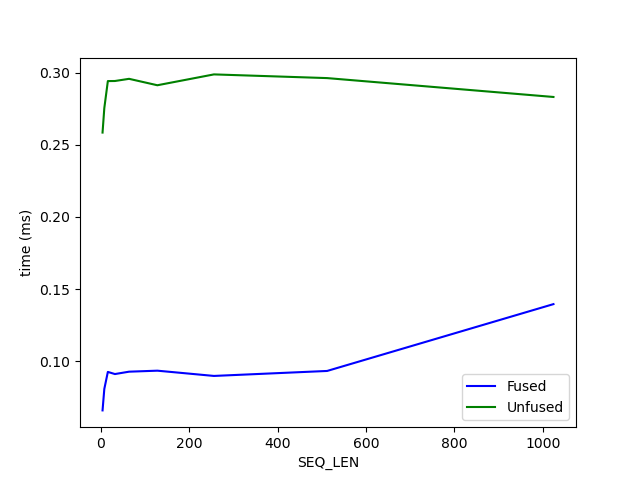
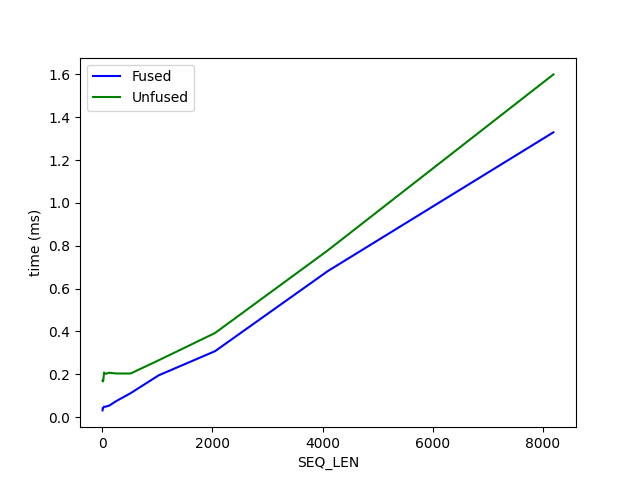
setup autotuning

diff --git a/fusion/hnet/triton/fused_dc.py b/fusion/hnet/triton/fused_dc.py
@@ -13,6 +13,43 @@ Fused dynamic chunking kernel based off Triton's fused softmax tutorial
 
 """
 
+def get_cuda_autotune_config():
+    return [
+        triton.Config({'BLOCK_SIZE_M': 128, 'BLOCK_SIZE_N': 256, 'BLOCK_SIZE_K': 64, 'GROUP_SIZE_M': 8}, num_stages=3,
+                      num_warps=8),
+        triton.Config({'BLOCK_SIZE_M': 64, 'BLOCK_SIZE_N': 256, 'BLOCK_SIZE_K': 32, 'GROUP_SIZE_M': 8}, num_stages=4,
+                      num_warps=4),
+        triton.Config({'BLOCK_SIZE_M': 128, 'BLOCK_SIZE_N': 128, 'BLOCK_SIZE_K': 32, 'GROUP_SIZE_M': 8}, num_stages=4,
+                      num_warps=4),
+        triton.Config({'BLOCK_SIZE_M': 128, 'BLOCK_SIZE_N': 64, 'BLOCK_SIZE_K': 32, 'GROUP_SIZE_M': 8}, num_stages=4,
+                      num_warps=4),
+        triton.Config({'BLOCK_SIZE_M': 64, 'BLOCK_SIZE_N': 128, 'BLOCK_SIZE_K': 32, 'GROUP_SIZE_M': 8}, num_stages=4,
+                      num_warps=4),
+        triton.Config({'BLOCK_SIZE_M': 128, 'BLOCK_SIZE_N': 32, 'BLOCK_SIZE_K': 32, 'GROUP_SIZE_M': 8}, num_stages=4,
+                      num_warps=4),
+        triton.Config({'BLOCK_SIZE_M': 64, 'BLOCK_SIZE_N': 32, 'BLOCK_SIZE_K': 32, 'GROUP_SIZE_M': 8}, num_stages=5,
+                      num_warps=2),
+        triton.Config({'BLOCK_SIZE_M': 32, 'BLOCK_SIZE_N': 64, 'BLOCK_SIZE_K': 32, 'GROUP_SIZE_M': 8}, num_stages=5,
+                      num_warps=2),
+        # Good config for fp8 inputs.
+        triton.Config({'BLOCK_SIZE_M': 128, 'BLOCK_SIZE_N': 256, 'BLOCK_SIZE_K': 128, 'GROUP_SIZE_M': 8}, num_stages=3,
+                      num_warps=8),
+        triton.Config({'BLOCK_SIZE_M': 256, 'BLOCK_SIZE_N': 128, 'BLOCK_SIZE_K': 128, 'GROUP_SIZE_M': 8}, num_stages=3,
+                      num_warps=8),
+        triton.Config({'BLOCK_SIZE_M': 256, 'BLOCK_SIZE_N': 64, 'BLOCK_SIZE_K': 128, 'GROUP_SIZE_M': 8}, num_stages=4,
+                      num_warps=4),
+        triton.Config({'BLOCK_SIZE_M': 64, 'BLOCK_SIZE_N': 256, 'BLOCK_SIZE_K': 128, 'GROUP_SIZE_M': 8}, num_stages=4,
+                      num_warps=4),
+        triton.Config({'BLOCK_SIZE_M': 128, 'BLOCK_SIZE_N': 128, 'BLOCK_SIZE_K': 128, 'GROUP_SIZE_M': 8}, num_stages=4,
+                      num_warps=4),
+        triton.Config({'BLOCK_SIZE_M': 128, 'BLOCK_SIZE_N': 64, 'BLOCK_SIZE_K': 64, 'GROUP_SIZE_M': 8}, num_stages=4,
+                      num_warps=4),
+        triton.Config({'BLOCK_SIZE_M': 64, 'BLOCK_SIZE_N': 128, 'BLOCK_SIZE_K': 64, 'GROUP_SIZE_M': 8}, num_stages=4,
+                      num_warps=4),
+        triton.Config({'BLOCK_SIZE_M': 128, 'BLOCK_SIZE_N': 32, 'BLOCK_SIZE_K': 64, 'GROUP_SIZE_M': 8}, num_stages=4,
+                      num_warps=4)
+    ]
+
 def is_hip():
     return triton.runtime.driver.active.get_current_target().backend == "hip"
 

diff --git a/fusion/hnet/triton/numerical.py b/fusion/hnet/triton/numerical.py
@@ -28,8 +28,8 @@ def run_fused(x, routing_module):
 if __name__ == "__main__":
     routing_module = RoutingModule(d_model=1024, device=torch.device("cuda"))
 
-    x = torch.randn(1, 1024, 1024, device=torch.device("cuda"))
-    mask = torch.ones(1, 1024, device=torch.device("cuda"), dtype=torch.bool)
+    x = torch.randn(1, 8192 * 10, 1024, device=torch.device("cuda"))
+    mask = torch.ones(1, 8192 * 10, device=torch.device("cuda"), dtype=torch.bool)
 
     routing_module_output = routing_module(x, mask=mask)
     boundary_prob, boundary_mask, selected_probs = routing_module_output.boundary_prob, routing_module_output.boundary_mask, routing_module_output.selected_probs

diff --git a/fusion/hnet/triton/benchmark.py b/fusion/hnet/triton/benchmark.py
@@ -29,7 +29,7 @@ def run_fused_dc(x, q_proj, k_proj):
 @triton.testing.perf_report(
     triton.testing.Benchmark(
         x_names=['SEQ_LEN'],  # argument names to use as an x-axis for the plot
-        x_vals=[2 ** i for i in range(2, 11)],  # different possible values for `x_name`
+        x_vals=[2 ** i for i in range(2, 14)],  # different possible values for `x_name`
         line_arg='provider',  # argument name whose value corresponds to a different line in the plot
         line_vals=['triton', 'torch'],  # possible values for `line_arg``
         line_names=[
